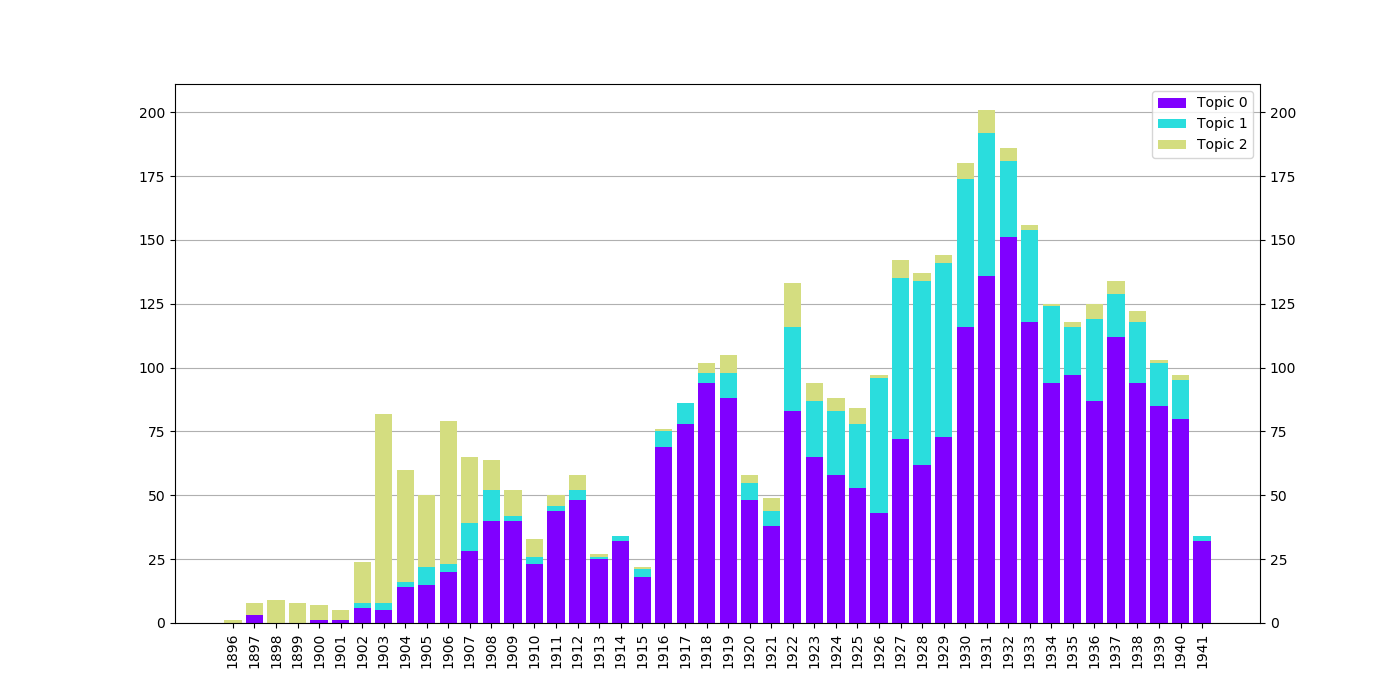
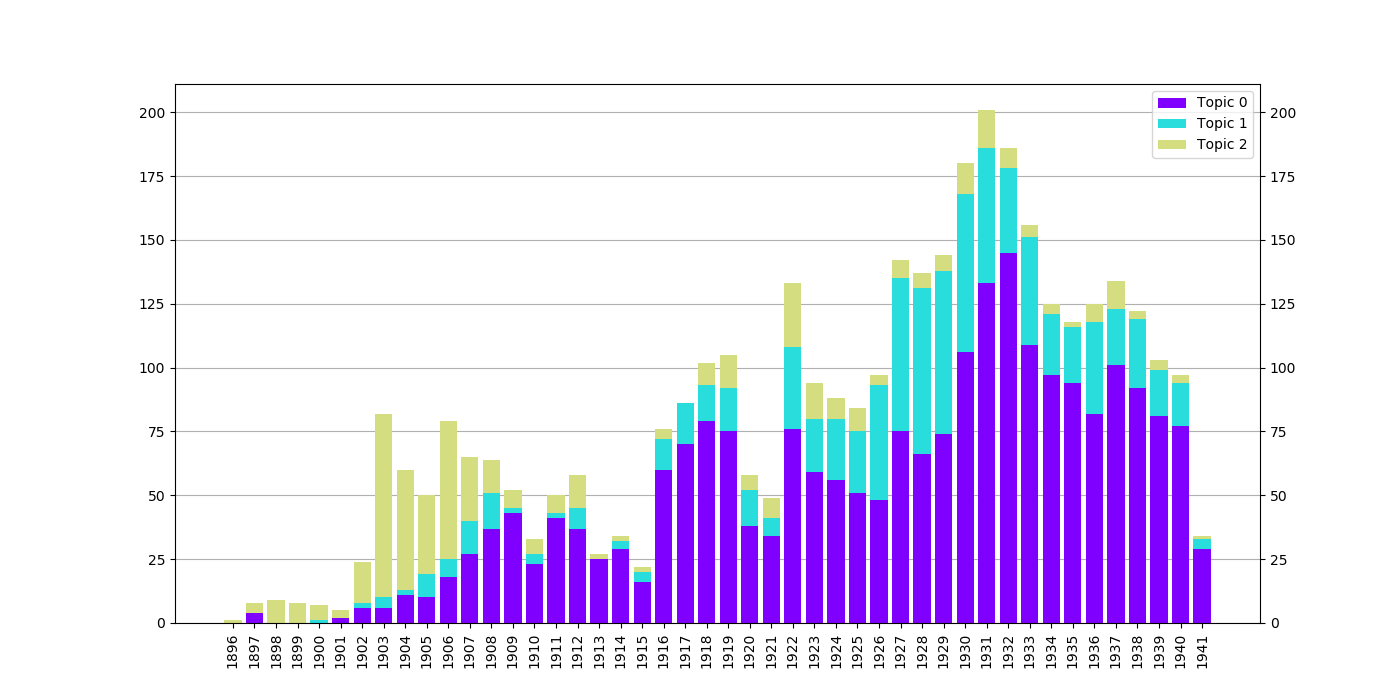
novo gráfico de comparação dos parâmetros

diff --git a/src/models/topics.py b/src/models/topics.py
@@ -3,6 +3,7 @@
 import sys, codecs, warnings
 import pandas as pd
 import numpy as np
+import matplotlib as mpl
 import matplotlib.pyplot as plt
 import matplotlib.cm as cm
 from copy import deepcopy
@@ -15,6 +16,7 @@ import pyLDAvis.gensim
 from sklearn.metrics import silhouette_samples, silhouette_score
 from wordcloud import WordCloud
 from time import time
+from matplotlib.lines import Line2D
 
 sys.path.append("src/utils")
 from constants import *
@@ -330,16 +332,19 @@ returns: results dataframe
 	0       3   0.242163    0.627356
 	1       4   0.198382    0.629180
 """
-
 def compare_models(k_values: list, alpha_values: list, beta_values: list) -> pd.DataFrame:
 	timestamp = int(time())
 	results: list = []
 	df_results = pd.DataFrame({"num_topics": [], "alpha": [], "beta": [], "coherence": [], "silhouette": []})
 
 	for num_topics in k_values:
+		global n_topics
+		n_topics = num_topics
+
 		for alpha in alpha_values:
 			for beta in beta_values:
-				result = model(num_topics, alpha=alpha, beta=beta, saved=False, wordclouds=True)
+				print(f"BUILDING: num_topics={num_topics}, alpha={alpha}, beta={beta}")
+				result = model(num_topics, alpha=alpha, beta=beta, saved=False)
 				results.append(result)
 	
 
@@ -353,7 +358,7 @@ def compare_models(k_values: list, alpha_values: list, beta_values: list) -> pd.
 		}, ignore_index=True)
 
 	df_results["num_topics"] = pd.to_numeric(df_results["num_topics"], downcast="integer")
-	df_results.to_csv(f"{EXEC_LOGS_PATH}comparison_results_{timestamp}.csv")
+	df_results.to_csv(f"{EXEC_LOGS_PATH}comparison_results_{timestamp}.csv", index_label="index")
 		
 	return results, df_results
 
@@ -495,29 +500,146 @@ def plot_topics_per_recipient(vw: pd.DataFrame) -> None:
 	plt.savefig(f"{GRAPHS_PATH}lda{n_topics}_topic_frequency_per_recipient.png")
 	plt.close("all")
 
+"""
+makes scatter plot comparing models by alpha and beta
+"""
+def plot_results_old(results: pd.DataFrame):
+	results["num_topics"] = pd.to_numeric(results["num_topics"], downcast="integer")
+	n_subplots = 3
+
+	alpha_markers = {
+		"asymmetric": "*", # asterisk: (5, 2)
+		"symmetric": "o", # ?
+		"0.3": "^", # triangle
+		"0.5": (5, 0), # pentagon
+		"0.7": "+"
+	}
+
+	beta_colors = {beta : cm.viridis.reversed()(beta) for beta in set(results["beta"])}
+
+	fig = plt.figure(figsize=(8,8))
+	gs = fig.add_gridspec(nrows=3, ncols=2, width_ratios=[7, 0.2], height_ratios=[2.5, 2.5, 2.5], hspace=0.5, wspace=0.1)
+	axs = [] # actual scatter plot axes
+	axs.append(fig.add_subplot(gs[0, 0]))
+	axs.append(fig.add_subplot(gs[1, 0], sharex=axs[0], sharey=axs[0]))
+	axs.append(fig.add_subplot(gs[2, 0], sharex=axs[0], sharey=axs[0]))
+	axc = fig.add_subplot(gs[:,1]) # ax for the colorbar
+
+	for n_topics in [3, 4, 5]:
+		results_t = results[results["num_topics"] == n_topics]
+		i = n_topics - n_subplots # axis index
+		for index, row in results_t.iterrows():
+			axs[i].plot(
+				row["silhouette"],
+				row["coherence"],
+				marker=alpha_markers[row["alpha"]],
+				color=beta_colors[row["beta"]],
+				markersize=8
+			)
+			axs[i].grid(True, axis="both", alpha=0.2)
+			axs[i].set_title(f"k = {n_topics}", loc="left")
+
+	legend_elems = []
+	for label, marker in list(alpha_markers.items()):
+		legend_elems.append(Line2D([0], [0], marker=marker, color="white", markeredgecolor="grey", markerfacecolor="grey", markersize=10, label=label))
+
+	axs[0].tick_params(axis="both", bottom=True, left=True, labelbottom=True, labelleft=True, right=True, labelright=True)
+	axs[1].tick_params(axis="both", bottom=True, left=True, labelbottom=True, labelleft=True, right=True, labelright=True)
+	axs[2].tick_params(axis="both", bottom=True, left=True, labelbottom=True, labelleft=True, right=True, labelright=True)
+	axs[2].set_xlabel("average silhouette coefficient", fontsize="large")
+	axs[1].set_ylabel("coherence score", fontsize="large")
+	axs[0].legend(handles=legend_elems, framealpha=1, loc="upper left", edgecolor="black", title="alpha", fancybox=False, fontsize="small")
+
+
+	cb = mpl.colorbar.ColorbarBase(axc, cmap=cm.viridis.reversed(), norm=mpl.colors.Normalize(vmin=0, vmax=1), orientation="vertical")
+	axc.set_xlabel("beta", fontsize="large")
+	plt.show()
+
+
+def plot_results(results: pd.DataFrame):
+	results = results[results["beta"] != "auto"]
+
+	alpha_markers = {
+		"asymmetric": "*", # star
+		"symmetric": "o",
+		"0.3": "^", # triangle
+		"0.5": (5, 0), # pentagon
+		"0.7": "+"
+	}
+
+	beta_colors = {beta : cm.rainbow(beta) for beta in set(results["beta"])}
+
+	results["num_topics"] = pd.to_numeric(results["num_topics"], downcast="integer")
+	results.sort_values(by=["silhouette", "coherence", "beta"], ascending=[False, False, False])
+	k_values = [3, 4, 5, 6]
+	n_subplots = len(k_values)
+
+	fig, axs = plt.subplots(nrows=3, ncols=2, sharex=True, sharey=True)
+	plt.subplots_adjust(hspace=0.6, wspace=0.3)
+
+	gs = axs[2,0].get_gridspec()
+	axs[2,0].remove()
+	axs[2,1].remove()
+	axl = fig.add_subplot(gs[2:, :])
+	axl.tick_params(axis="both", left=False, bottom=False, labelbottom=False, labelleft=False)
+	axl.axis(False)
+
+	# later
+	axs = [axs[0,0], axs[0,1], axs[1,0], axs[1,1]] # flatten
+
+	for i in range(n_subplots):
+			n_topics = k_values[i]
+			results_t = results[results["num_topics"] == n_topics]
+			for index, row in results_t.iterrows():
+				ax = axs[i] # easier to change later
+				ax.plot(
+					row["silhouette"],
+					row["coherence"],
+					marker=alpha_markers[row["alpha"]],
+					color=beta_colors[row["beta"]],
+					markersize=8
+				)
+				ax.set_title(f"K = {n_topics}", loc="center")
+				ax.tick_params(axis="both", left=False, bottom=False, labelleft=True, labelbottom=True, labelsize="small")
+				ax.grid(axis="both", color="grey", alpha=0.5)
+
+	# fig.text(0.5, 0.04, "Silhouette", ha="center")
+	# fig.text(0.04, 0.5, "Coherence", va="center", rotation="vertical")
+	axs[0].set_ylabel("Coherence")
+	axs[2].set_ylabel("Coherence")
+	axs[2].set_xlabel("Silhouette")
+	axs[3].set_xlabel("Silhouette")
+
+	legend_elems = []
+	legend_elems.append(Line2D([0], [0], marker="s", color="white", markerfacecolor="white", markeredgecolor="white", label="ALPHA")) # first title
+
+	for label, marker in list(alpha_markers.items()): # legend for alpha markers
+		legend_elems.append(Line2D([0], [0], marker=marker, color="white", markeredgecolor="grey", markerfacecolor="grey", markersize=10, label=label))
+
+	legend_elems.append(Line2D([0], [0], marker="s", color="white", markerfacecolor="white", markeredgecolor="white", label="BETA")) # second title
+	for label, color in list(beta_colors.items()): # legend for beta colors (squares in given color)
+		legend_elems.append(Line2D([0], [0], marker="s", color="white", markeredgecolor=color, markerfacecolor=color, markersize=10, label=label))
+
+	axl.legend(handles=legend_elems, framealpha=1, loc="upper center", edgecolor="grey", fontsize="small", ncol=4, borderpad=1)
+
+	plt.show()
+
 # --------------------------------------------------------------------------
 
 vw = read_dataframe(VW_PREPROCESSED)
 print("Pre-processed VW dataset successfully imported.")
-vw, letters, corpus, dictionary = build_letter_corpus(vw)
+# vw, letters, corpus, dictionary = build_letter_corpus(vw)
 vws = pd.DataFrame() # global var
 
-"""
-compare models
-"""
-n_topics = 0 # global var
-# results = compare_models([3, 4, 5, 6, 7, 8])
-# plot_metrics(results)
+n_topics = -1 # global var
+# _, results_df = compare_models(
+# 	k_values=[3, 4, 5],
+# 	alpha_values=["asymmetric"],
+# 	beta_values=["auto"]
+# )
 
-"""
-evaluate 3-topic model
-"""
-n_topics = 5
-# results, df_results = compare_models([3, 4, 5], ["symmetric", "asymmetric", 0.5], [0.1, 0.3, 0.9])
-# df_results = df_results.sort_values(by=["coherence", "silhouette"], ascending=[False, False])
-
-lda3 = model(3, alpha="asymmetric", beta=0.9, saved=False, wordclouds=True, rep_letters=True, plots=True)["model"] # highest silhouette
-lda5 = model(5, alpha="asymmetric", beta=0.9, saved=False, wordclouds=True, rep_letters=True, plots=True)["model"] # highest coherence
-
-plt.close("all")
-# vws.to_json(VW_ASSIGNED, orient="index")
+# plot results
+results1 = pd.read_csv("reports/logs/comparison_results_1572102344.csv", index_col="index")
+results2 = pd.read_csv("reports/logs/comparison_results_1572118571.csv", index_col="index")
+results = results1.append(results2, ignore_index=True)
+plot_results(results)

diff --git a/src/features/preprocessing.py b/src/features/preprocessing.py
@@ -118,9 +118,9 @@ def remove_stopwords(tokens: list) -> list:
 	# stopwords = ['most', 'over', 'until', "shouldnt", 'only', 'all', 'o', 'herself', 'same', 'ma', 'i', 'will', 'now', 'these', 'needn', 'out', 'yours', 'hadn', 'where', 'during', 'above', 'very', 'aren', 'off', 'when', 'once', 'm', 'don', 'then', 'why', 'its', 'weren', "couldn't", 'him', "mightn't", 't', 'to', 'into', 'been', 'wasn', 'wouldn', 'won', 'are', 'whom', 'y', 'more', 'some', 'nor', 'by', 'being', "shes", 'a', 'about', 'he', 'below', 'my', 'it', 'they', 'does', 'this', 'any', "wouldnt", 'and', 'ours', "havent", 'you', 'should', 'in', "isn't", 'each', 's', "won't", "don't", 'them', 'himself', 'if', 'so', 'at', 'mustn', 'themselves', 'further', 'myself', 'ain', 'she', 'an', "werent", 'our', 'what', 'on', 'doing', 'll', 'isn', 'yourself', "its", 'too', "arent", 'couldn', 'just', 'we', "hasnt", 'have', "didnt", 'is', 'the', 'for', 've', 'do', 'few', 'hasn', 'those', 'was', 'such', 'which', 'didn', 'because', 'of', 'hers', 'not', "shouldve", 'me', 'were', 'with', 'itself', 'doesn', 'shan', 'or', 'both', 'can', 'has', 'did', 'while', 'no', "youd", 'be', "hadnt", 'but', 'shouldn', 'his', 'their', 're', 'again', 'how', 'your', 'here', 'before', 'through', 'who', 'up', 'between', 'yourselves', "mustnt", 'having', 'her', 'other', 'theirs', 'am', 'haven', 'against', 'as', 'had', "doesnt", 'mightn', "youre", 'from', 'under', 'than', "youve", 'd', 'down', 'ourselves', 'there', "wasnt", "youll", 'that', 'own', 'after', "one", "dont", "im", "ive", "without", "with", "till", "must", "get", "neither", "also", "could", "couldnt", "would", "wouldnt", "wont", "might", "thats", "mr", "mrs", "let", "yr", "yrs", "x", "upon", "every", "anyhow", "there", "here", "l", "th", "b", "av", "do", "re", "ve"]
 
 	stopwords = set([
-		"most", "over", "until", "only", "all", "herself", "same", "t", "o", "re", "ve", "b", "th", "l", "here", "do", "did", "out", "need", "your", "yours", "yrs", "yr", "v", "vw", "m", "ll", "may", "might", "shall", "where", "still", "too", "are", "its", "it", "could", "just", "we", "us", "hers", "her", "him", "his", "you", "yourself", "had", "has", "were", "with", "without", "under", "than", "that", "again", "affate", "would", "will", "one", "i", "till", "must", "get", "neither", "also", "mr", "mrs", "miss", "any", "every", "there", "here", "x", "their", "theirs", "itself", "below", "my", "mine", "them", "this", "more", "less", "some", "nor", "by", "why", "because", "to", "into", "been", "ours", "each", "can", "both", "shan", "or", "and", "while", "down", "few", "for", "should", "ma", "now", "these", "during", "very", "off", "when", "once", "whom", "won", "y", "being", "a", "about", "he", "they", "does", "in", "isn", "himself", "if", "so", "at", "mustn", "themselves", "further", "myself", "ain", "she", "on", "doing", "couldn", "hasn", "what", "couldn", "have", "is", "was", "such", "which", "not", "having", "other", "am", "against", "doesn", "mightn", "youre", "from", "youve", "ourselves", "youll", "let", "upon", "anyhow", "av", "thats", "oh", "else", "least", "enough", "s", "dear", "the", "of", "bye", "our", "who", "me", "no", "an", "sir", "thy", "be", "is", "milord", "lady", "ye", "u", "youre", "except", "etc", "didn", "th", "cant", "dont", "d", "yes", "q", "im",
+		"most", "over", "until", "only", "all", "herself", "same", "t", "o", "re", "ve", "b", "th", "l", "here", "do", "did", "out", "need", "your", "yours", "yrs", "yr", "v", "vw", "m", "ll", "may", "might", "shall", "where", "still", "too", "are", "its", "it", "could", "just", "we", "us", "hers", "her", "him", "his", "you", "yourself", "had", "has", "were", "with", "without", "under", "than", "that", "again", "affate", "would", "will", "one", "i", "till", "must", "get", "neither", "also", "mr", "mrs", "miss", "any", "every", "there", "here", "x", "their", "theirs", "itself", "below", "my", "mine", "them", "this", "more", "less", "some", "nor", "by", "why", "because", "to", "into", "been", "ours", "each", "can", "both", "shan", "or", "and", "while", "down", "few", "for", "should", "ma", "now", "these", "during", "very", "off", "when", "once", "whom", "won", "y", "being", "a", "about", "he", "they", "does", "in", "isn", "himself", "if", "so", "at", "mustn", "themselves", "further", "myself", "ain", "she", "on", "doing", "couldn", "hasn", "what", "couldn", "have", "is", "was", "such", "which", "not", "having", "other", "am", "against", "doesn", "mightn", "youre", "from", "youve", "ourselves", "youll", "let", "upon", "anyhow", "av", "thats", "oh", "else", "least", "enough", "s", "dear", "the", "of", "bye", "our", "who", "me", "no", "an", "sir", "thy", "be", "is", "milord", "lady", "ye", "u", "youre", "except", "etc", "didn", "th", "cant", "dont", "d", "yes", "q", "im", "shant", "anyone"
 	
-		"virginia", "ginia", "thoby", "vita", "leonard", "nessa", "stella", "nelly", "duncan", "ethel", "violet", "bell", "vanessa", "clive", "lytton", "quentin", "roger", "tom", "ottoline", "ott", "morrell", "julian", "gordon", "goldie", "desmond", "bunny", "charleston", "angelica", "square", "tavistock", "morgan", "sibyl", "sybil", "colefax", "maynard", "john", "sackville", "harold", "nicolson", "nigel", "lydia", "adrian", "mary", "margaret", "katherine", "mansfield", "george", "woolf"
+		"virginia", "ginia", "thoby", "vita", "leonard", "nessa", "stella", "nelly", "duncan", "ethel", "violet", "bell", "vanessa", "clive", "lytton", "quentin", "roger", "tom", "ottoline", "ott", "morrell", "julian", "gordon", "goldie", "desmond", "bunny", "charleston", "angelica", "square", "tavistock", "morgan", "sibyl", "sybil", "colefax", "maynard", "john", "sackville", "harold", "nicolson", "nigel", "lydia", "adrian", "mary", "margaret", "katherine", "mansfield", "george", "woolf", "sparroy", "madge", "gerald", "eliot", "saxon", "marny", "rodmell", "beatrice"
 		]) # set lookup is O(1)
 
 	new_tokens = [t for t in tokens if t not in stopwords]
@@ -177,7 +177,7 @@ def reduction_pipeline(text: str, pos_whitelist: list) -> list:
 	pos_whitelist = [mapping[tag] for tag in pos_whitelist]
 	filtered = [token for (token, pos) in lemmatized if pos in pos_whitelist] # keep only whitelisted parts of speech
 	
-	cleaned = remove_non_alphabetic(filtering) # remove remaining non-alphabetic symbols
+	cleaned = remove_non_alphabetic(filtered) # remove remaining non-alphabetic symbols
 	cleaned = remove_stopwords(cleaned) # remove remaining stop words
 	return cleaned
 
